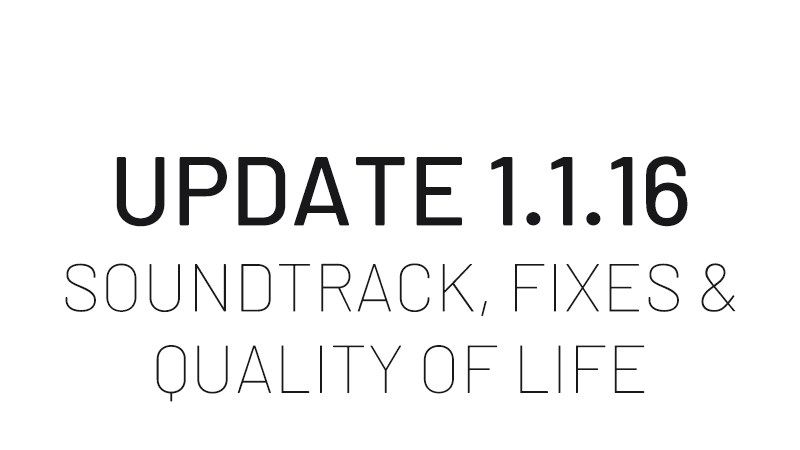
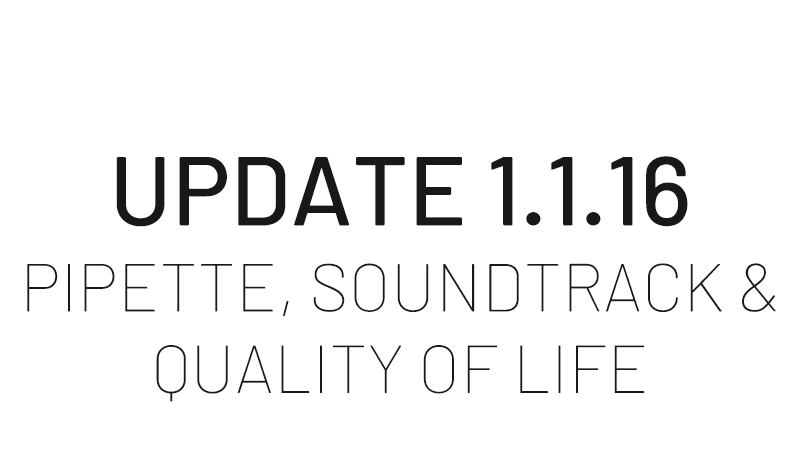
Fixes for the pipette

Changed region(s): [[0.0312, 0.56, 0.9688, 0.7156]]

diff --git a/src/js/game/hud/parts/blueprint_placer.js b/src/js/game/hud/parts/blueprint_placer.js
@@ -60,6 +60,11 @@ export class HUDBlueprintPlacer extends BaseHUDPart {
      * Starts the pipette function
      */
     startPipette() {
+        // Disable in overview
+        if (this.root.camera.getIsMapOverlayActive()) {
+            return;
+        }
+
         const mousePosition = this.root.app.mousePosition;
         if (!mousePosition) {
             // Not on screen
@@ -69,7 +74,9 @@ export class HUDBlueprintPlacer extends BaseHUDPart {
         const worldPos = this.root.camera.screenToWorld(mousePosition);
         const tile = worldPos.toTileSpace();
         const contents = this.root.map.getTileContent(tile);
-        if (contents) {
+
+        // Make sure we selected something, and also make sure it's not a special entity
+        if (contents && !contents.components.Unremovable) {
             const blueprint = PipetteBlueprint.fromEntity(contents);
 
             // Notice: Order here matters, since pipetteExecuted clears the blueprint
